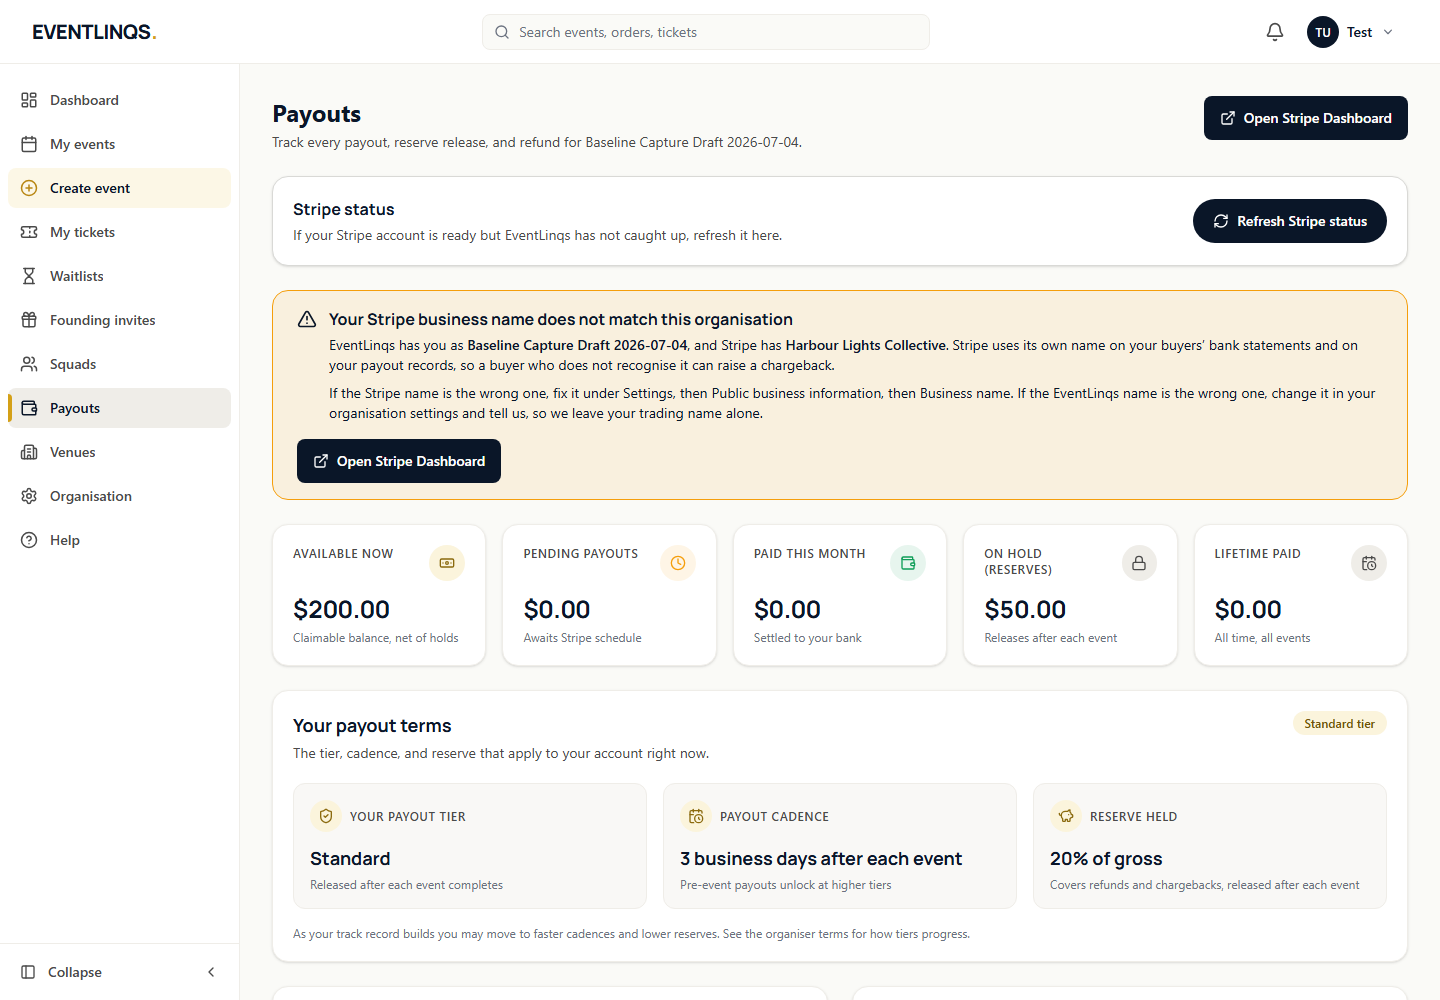
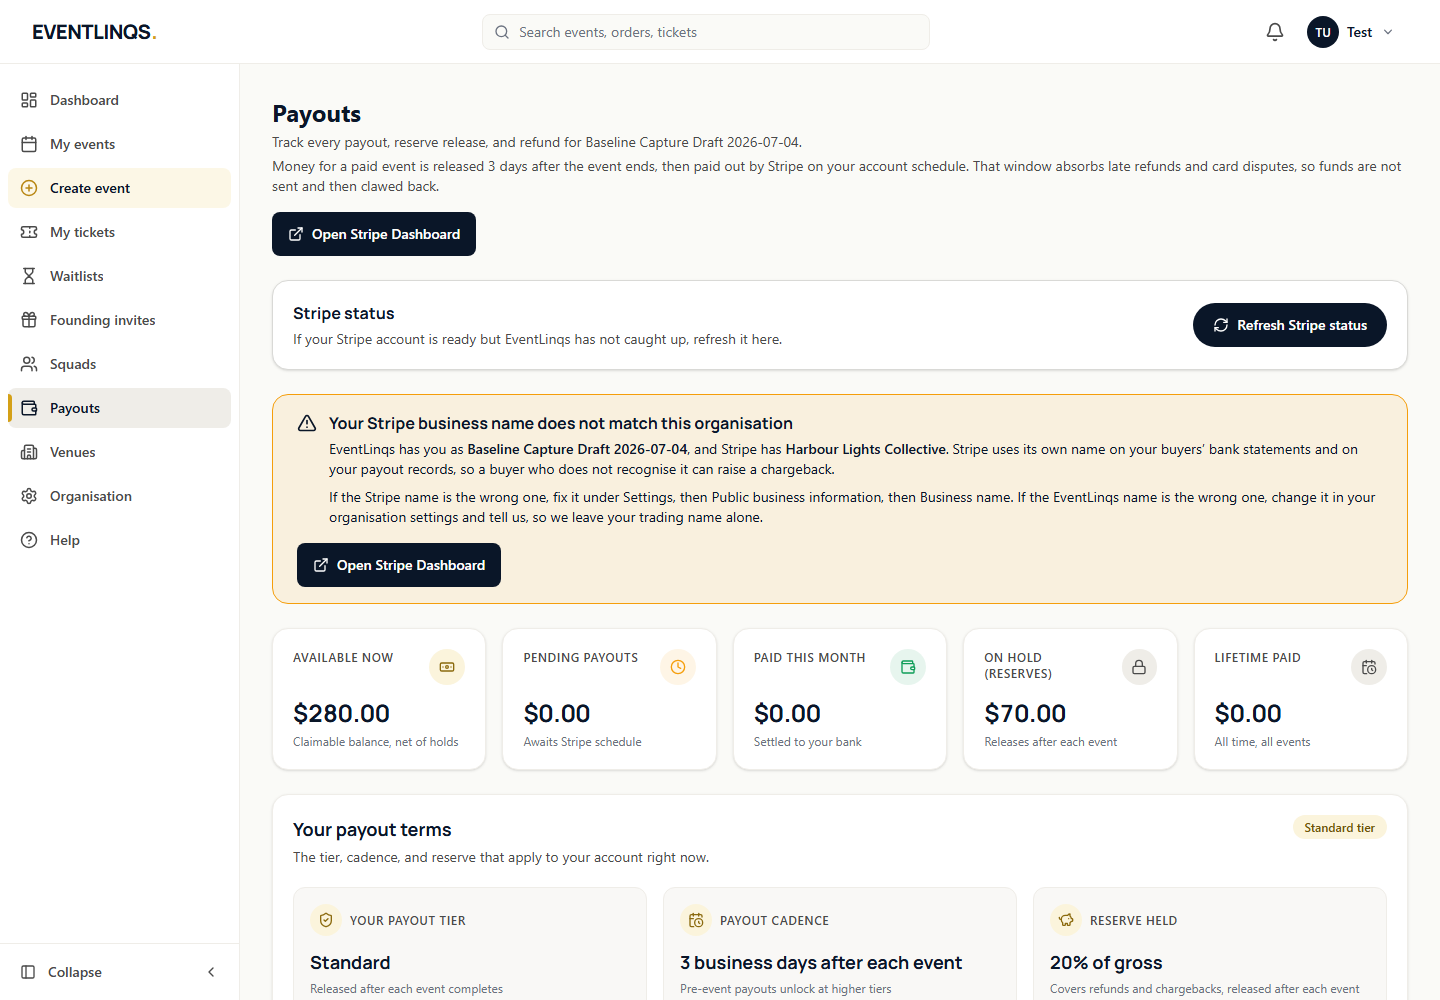
The door says when, and the payouts screen says when the money arrives
TWO FOUNDER RULINGS, 29 August, and both were data the platform already had and
simply never put on the screen.

THE DOOR. "Already used" refused correctly and settled nothing: the person
holding the phone cannot tell their own double-scan from a ticket that came
through two hours ago on somebody else, and there is a queue behind them. It now
reads "Already used just now", "Already used 12 minutes ago", "Already used 3
hours ago". first_scanned_at was already returned by the scan_ticket RPC and by
the server action; describeScanResult just never took it.

RELATIVE, NOT A CLOCK TIME, deliberately: "two minutes ago" answers the question
being asked, where a timestamp makes someone do arithmetic while a queue builds,
and gets it wrong in another timezone. A first scan timestamped in the FUTURE
(clock skew) prints nothing rather than "in 3 minutes", and a missing timestamp
still refuses cleanly, because admitting on surprise is the one thing a door must
never do.

THE PAYOUTS SCREEN named the organisation, showed Stripe status and linked the
Stripe dashboard, and never said when money arrives. An organiser who cannot see
that assumes it is not coming. It now reads: "Money for a paid event is released
3 days after the event ends, then paid out by Stripe on your account schedule.
That window absorbs late refunds and card disputes, so funds are not sent and
then clawed back."

THE NUMBER IS READ LIVE from the same payout_schedule_days pricing rule the
[…]

diff --git a/tests/unit/scanner/already-used-says-when.test.ts b/tests/unit/scanner/already-used-says-when.test.ts
@@ -1,0 +1,90 @@
+import { describe, expect, it } from 'vitest'
+import { describeScanResult, describeHowLongAgo } from '@/lib/scanner/result'
+
+/**
+ * "ALREADY USED" MUST SAY WHEN.
+ *
+ * Founder ruling 29 August 2026, after journey 6 found the door refusing a second
+ * scan correctly and saying only "Already used". At a door that starts an argument
+ * nobody present can settle: the person holding the phone cannot tell a
+ * double-scan of their own from a ticket that came through two hours ago on
+ * somebody else's phone, and there is a queue behind them.
+ *
+ * first_scanned_at was already returned by the scan_ticket RPC and by the server
+ * action. It was simply never shown.
+ *
+ * RELATIVE, NOT A CLOCK TIME, deliberately. "Two minutes ago" answers the question
+ * actually being asked. A timestamp makes someone do arithmetic while a queue
+ * builds, and gets it wrong in a different timezone.
+ */
+
+const NOW = new Date('2026-08-29T20:00:00Z').getTime()
+const ago = (ms: number) => new Date(NOW - ms).toISOString()
+
+describe('how long ago, in door words', () => {
+  it('reads as just now inside the first minute', () => {
+    expect(describeHowLongAgo(ago(5_000), NOW)).toBe('just now')
+    expect(describeHowLongAgo(ago(59_000), NOW)).toBe('just now')
+  })
+
+  it('counts minutes, then hours, then days', () => {
+    expect(describeHowLongAgo(ago(2 * 60_000), NOW)).toBe('2 minutes ago')
+    expect(describeHowLongAgo(ago(60 * 60_000), NOW)).toBe('1 hour ago')
+    expect(describeHowLongAgo(ago(3 * 60 * 60_000), NOW)).toBe('3 hours ago')
+    expect(describeHowLongAgo(ago(2 * 24 * 60 * 60_000), NOW)).toBe('2 days ago')
+  })
+
+  it('says one minute, not 1 minutes', () => {
+    expect(describeHowLongAgo(ago(61_000), NOW)).toBe('1 minute ago')
+  })
+
+  it('returns nothing it cannot stand behind', () => {
+    expect(describeHowLongAgo(null, NOW)).toBeNull()
+    expect(describeHowLongAgo(undefined, NOW)).toBeNull()
+    expect(describeHowLongAgo('not-a-date', NOW)).toBeNull()
+    // A clock skew that puts the first scan in the future is not something to
+    // report as "in 3 minutes" on a door screen.
+    expect(describeHowLongAgo(new Date(NOW + 180_000).toISOString(), NOW)).toBeNull()
+  })
+})
+
+/*
+ * describeScanResult reads the REAL clock, so these use a real relative time.
+ * The fixed NOW above belongs to describeHowLongAgo, which takes one; using it
+ * here put the first scan in the future and the helper correctly returned null.
+ */
+const realAgo = (ms: number) => new Date(Date.now() - ms).toISOString()
+
+describe('the door verdict', () => {
+  it('carries the time on a second scan', () => {
+    const v = describeScanResult('already_scanned', realAgo(12 * 60_000))
+    expect(v.decision).toBe('reject')
+    expect(v.label).toBe('REJECT')
+    expect(v.reason).toMatch(/^Already used/)
+    expect(v.reason, 'the door still cannot tell a double-scan from a stolen ticket').toMatch(/ago|just now/)
+  })
+
+  it('still refuses cleanly when the time is missing', () => {
+    // Never withhold the refusal because the timestamp is absent. Admitting on
+    // surprise is the one thing a door must never do.
+    const v = describeScanResult('already_scanned', null)
+    expect(v.decision).toBe('reject')
+    expect(v.reason).toBe('Already used')
+  })
+
+  it('does not decorate other refusals with a time', () => {
+    expect(describeScanResult('refunded', realAgo(60_000)).reason).toBe('Refunded')
+    expect(describeScanResult('wrong_event', realAgo(60_000)).reason).toBe('Wrong event')
+  })
+
+  it('an admit is still an admit', () => {
+    const v = describeScanResult('admitted', null)
+    expect(v.decision).toBe('admit')
+    expect(v.label).toBe('ADMIT')
+  })
+
+  it('an unknown code still fails closed', () => {
+    const v = describeScanResult('something-new-from-the-rpc', realAgo(60_000))
+    expect(v.decision, 'an unrecognised result admitted somebody').toBe('reject')
+  })
+})

diff --git a/src/lib/scanner/result.ts b/src/lib/scanner/result.ts
@@ -19,17 +19,49 @@ const REJECT_REASONS: Record<string, string> = {
 }
 
 /**
+ * How long ago, in the words someone standing at a door would use.
+ *
+ * FOUNDER RULING 29 August 2026: show the first-admission time. "Already used"
+ * on its own starts an argument that nobody at the door can settle, because the
+ * person holding the phone cannot tell a double-scan of their own from a ticket
+ * that came through two hours ago on somebody else's phone. first_scanned_at is
+ * already returned by the RPC and was simply never shown.
+ *
+ * RELATIVE, not a clock time, and that is the point: "two minutes ago" answers
+ * the question being asked, which is whether this is the same person trying
+ * again. A timestamp makes the reader do the arithmetic while a queue builds.
+ */
+export function describeHowLongAgo(iso: string | null | undefined, now: number = Date.now()): string | null {
+  if (!iso) return null
+  const then = new Date(iso).getTime()
+  if (Number.isNaN(then)) return null
+  const seconds = Math.round((now - then) / 1000)
+  if (seconds < 0) return null
+  if (seconds < 60) return 'just now'
+  const minutes = Math.round(seconds / 60)
+  if (minutes < 60) return `${minutes} minute${minutes === 1 ? '' : 's'} ago`
+  const hours = Math.round(minutes / 60)
+  if (hours < 24) return `${hours} hour${hours === 1 ? '' : 's'} ago`
+  const days = Math.round(hours / 24)
+  return `${days} day${days === 1 ? '' : 's'} ago`
+}
+
+/**
  * Maps a scan_ticket RPC result code to a door-staff decision and message.
  * Only the literal 'admitted' code admits; every other code, including any
  * unrecognised one, is a safe reject (fail closed - never admit on surprise).
+ *
+ * `firstScannedAt` is optional so every existing caller keeps working; when it
+ * is present and the ticket was already used, the reason carries how long ago.
  */
-export function describeScanResult(result: string): ScanResultView {
+export function describeScanResult(result: string, firstScannedAt?: string | null): ScanResultView {
   if (result === 'admitted') {
     return { decision: 'admit', label: 'ADMIT', reason: '' }
   }
-  return {
-    decision: 'reject',
-    label: 'REJECT',
-    reason: REJECT_REASONS[result] ?? 'Not valid',
+  const base = REJECT_REASONS[result] ?? 'Not valid'
+  if (result === 'already_scanned') {
+    const ago = describeHowLongAgo(firstScannedAt)
+    if (ago) return { decision: 'reject', label: 'REJECT', reason: `${base} ${ago}` }
   }
+  return { decision: 'reject', label: 'REJECT', reason: base }
 }

diff --git a/src/app/(dashboard)/dashboard/payouts/page.tsx b/src/app/(dashboard)/dashboard/payouts/page.tsx
@@ -30,6 +30,7 @@ import { outstandingFrom } from '@/lib/stripe/reconcile-connect'
 import { RefundsList } from '@/components/payouts/refunds-list'
 import type { Organisation } from '@/types/database'
 import { jsonAsRecord } from '@/lib/json-narrow'
+import { payoutScheduleDays } from '@/lib/guides/live-values'
 
 export const metadata = {
   title: 'Payouts | EventLinqs Dashboard',
@@ -216,12 +217,14 @@ export default async function PayoutsPage({
     )
   }
 
-  const [summary, terms, schedule, payouts, refunds] = await Promise.all([
+  const [summary, terms, schedule, payouts, refunds, payoutDays] = await Promise.all([
     getOrganiserPayoutSummary(org.id),
     getOrganiserPayoutTerms(org.id),
     getReserveReleaseSchedule(org.id, 30),
     getOrganiserPayouts(org.id, { limit: 20, offset: 0 }),
     getRefundImpact(org.id, { limit: 10, offset: 0 }),
+    // Read live from the one pricing rule, never written down on this page.
+    payoutScheduleDays(),
   ])
 
   return (
@@ -231,6 +234,20 @@ export default async function PayoutsPage({
           <h1 className="text-2xl font-bold text-ink-900">Payouts</h1>
           <p className="mt-1 text-sm text-ink-600">
             Track every payout, reserve release, and refund for {org.name}.
+          </p>
+          {/*
+            WHEN THE MONEY ARRIVES, on the screen, because an organiser who
+            cannot see it assumes it is not coming. Journey 10 found this screen
+            named the organisation, showed Stripe status and linked the Stripe
+            dashboard, and never once said when. The number is READ LIVE from the
+            same pricing rule the payout path and the guides use, never written
+            down here: two screens disagreeing about somebody's money is worse
+            than neither saying anything.
+          */}
+          <p className="mt-1 text-sm text-ink-600">
+            Money for a paid event is released {payoutDays} day{payoutDays === 1 ? '' : 's'} after the event
+            ends, then paid out by Stripe on your account schedule. That window absorbs late refunds and card
+            disputes, so funds are not sent and then clawed back.
           </p>
         </div>
         <StripeDashboardButton

diff --git a/src/lib/guides/live-values.ts b/src/lib/guides/live-values.ts
@@ -19,7 +19,13 @@ import type { GuideLiveValues } from './types'
 /** Mirrors the launch fallback in src/lib/payments/event-transfer.ts. */
 const FALLBACK_PAYOUT_DAYS = 3
 
-async function payoutScheduleDays(): Promise<number> {
+/**
+ * Exported on 29 August so the PAYOUTS SCREEN can state the same number the
+ * guides and the payout path use. It is never hardcoded anywhere: an organiser
+ * reading "3 days" on one screen and a different figure on another would not
+ * know which one their money follows.
+ */
+export async function payoutScheduleDays(): Promise<number> {
   try {
     const rule = await getPricingRule(
       { ruleType: 'payout_schedule_days', countryCode: 'AU', currency: 'AUD' },

diff --git a/src/components/features/scanner/scanner.tsx b/src/components/features/scanner/scanner.tsx
@@ -66,7 +66,7 @@ export function Scanner({ eventId, eventTitle }: { eventId: string; eventTitle: 
           setError(outcome.error ?? 'Scan failed. Try again.')
           setResult(null)
         } else {
-          const view = describeScanResult(outcome.result)
+          const view = describeScanResult(outcome.result, outcome.firstScannedAt)
           setResult({ ...view, holderName: outcome.holderName, seatLabel: outcome.seatLabel })
         }
       } finally {
